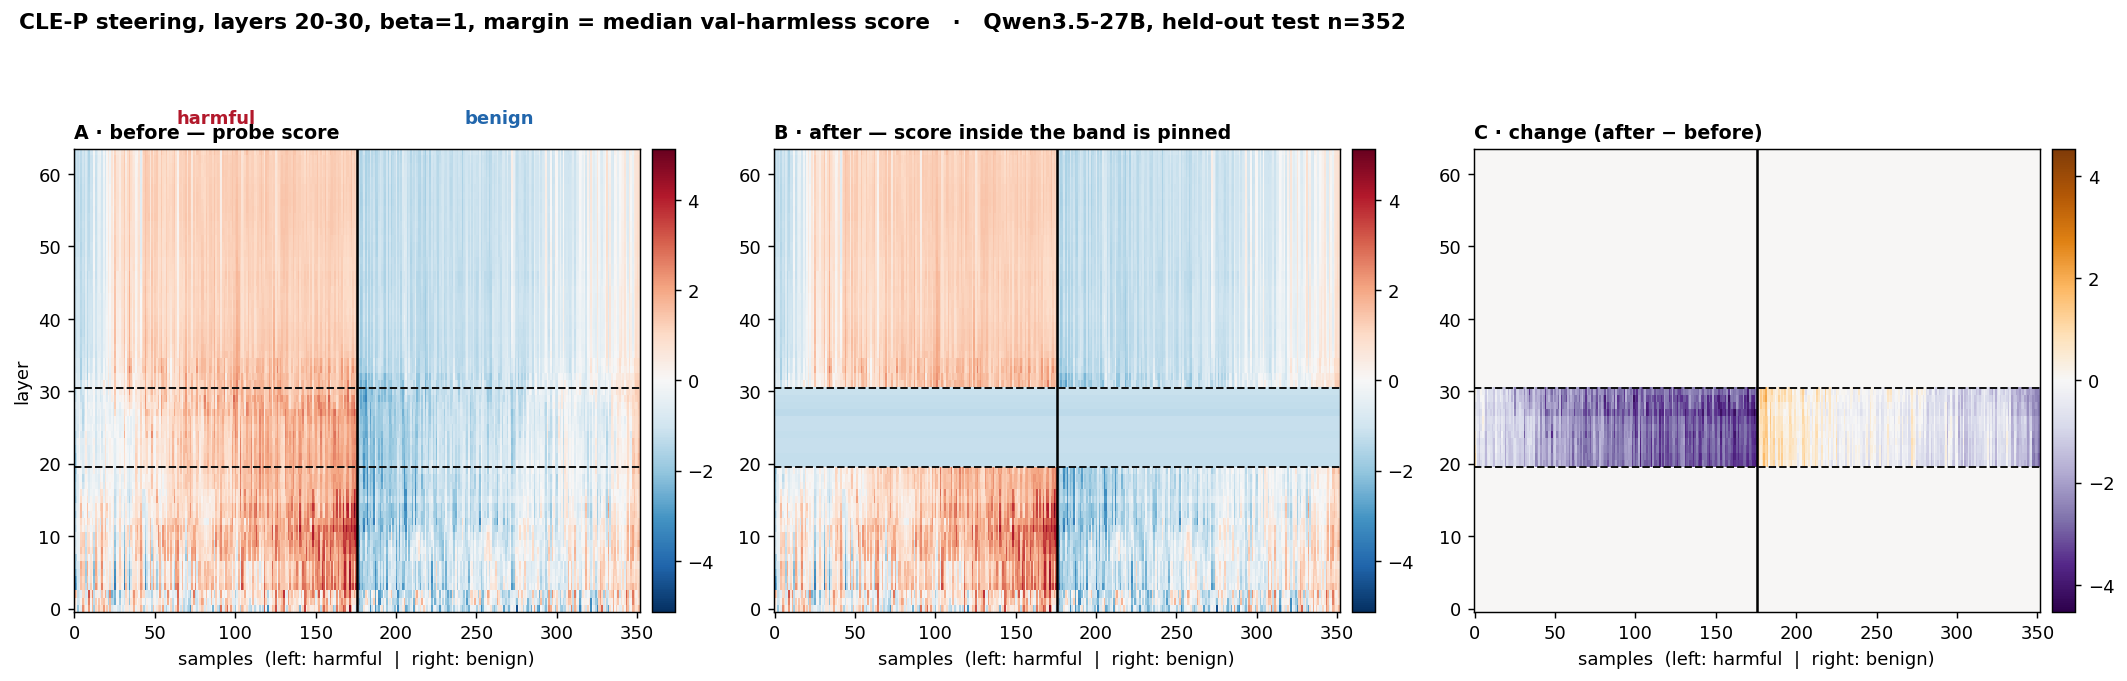
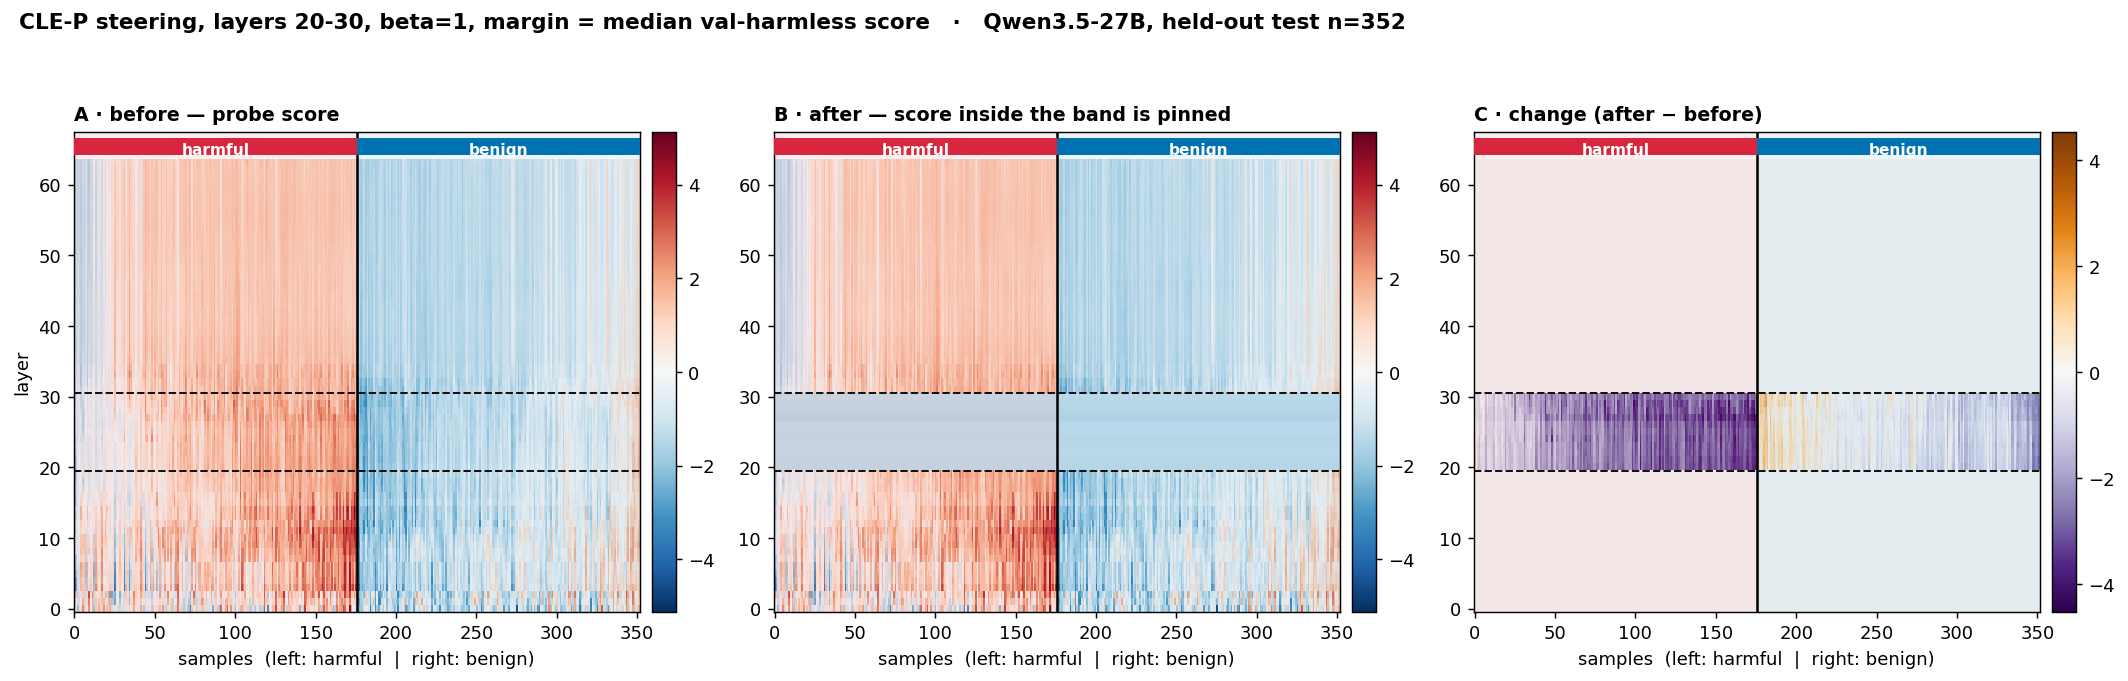
Add red/blue class strips to the steering heat map
Which half of the sample axis you are reading was only marked by a
divider line; now each panel carries a solid class strip plus a faint
background tint in the same red/blue as the sample colouring.

diff --git a/experiments/plot_steering_shift.py b/experiments/plot_steering_shift.py
@@ -35,6 +35,7 @@ R06 = os.path.join(HERE, "results", "06-qwen35-inscorer-probe")
 RB = os.path.join(R06, "rebaseline_2026-07-24")
 R08 = os.path.join(HERE, "results", "08-agentic-cle-pilot")   # these plots are about the CLE
                                                                  # intervention, not the 06 probe fit
+RED, BLUE = "#D7263D", "#0072B2"
 plt.rcParams.update({"font.size": 10, "figure.dpi": 130})
 
 
@@ -85,6 +86,10 @@ def main():
             (ax[2], Q - P, "C · change (after − before)", "PuOr_r", float(np.abs(Q - P).max()))):
         im = a.imshow(M, aspect="auto", origin="lower", cmap=cmap, vmin=-vmax, vmax=vmax,
                       interpolation="nearest")
+        # Class background: a red band under the harmful columns, blue under the benign ones, so
+        # which half you are reading is legible without counting across to the divider.
+        a.axvspan(-.5, split - .5, color=RED, alpha=.07, lw=0, zorder=0)
+        a.axvspan(split - .5, len(y) - .5, color=BLUE, alpha=.07, lw=0, zorder=0)
         a.axvline(split - .5, color="k", lw=1.4)
         for edge in (lo - .5, hi + .5):
             a.axhline(edge, color="#111", lw=1.1, ls="--")
@@ -92,9 +97,15 @@ def main():
         a.set_ylabel("layer" if a is ax[0] else "")
         a.set_title(title, loc="left", fontweight="bold", fontsize=10.5)
         fig.colorbar(im, ax=a, fraction=.046, pad=.02)
-    ax[0].text(split * .5, 67, "harmful", ha="center", color="#B2182B", fontweight="bold")
-    ax[0].text(split + (len(y) - split) * .5, 67, "benign", ha="center", color="#2166AC",
-               fontweight="bold")
+    # A solid class strip along the top of every panel, same red/blue as the sample colouring.
+    for a in ax:
+        a.set_ylim(-.5, 63.5 + 4)
+        a.axhspan(64.2, 66.6, xmin=0, xmax=split / len(y), color=RED, lw=0, zorder=3)
+        a.axhspan(64.2, 66.6, xmin=split / len(y), xmax=1, color=BLUE, lw=0, zorder=3)
+        a.text(split * .5, 64.9, "harmful", ha="center", va="center", color="white",
+               fontweight="bold", fontsize=8.5, zorder=4)
+        a.text(split + (len(y) - split) * .5, 64.9, "benign", ha="center", va="center",
+               color="white", fontweight="bold", fontsize=8.5, zorder=4)
 
     fig.tight_layout(rect=[0, 0, 1, 0.93])
     fig.savefig(args.out, bbox_inches="tight")